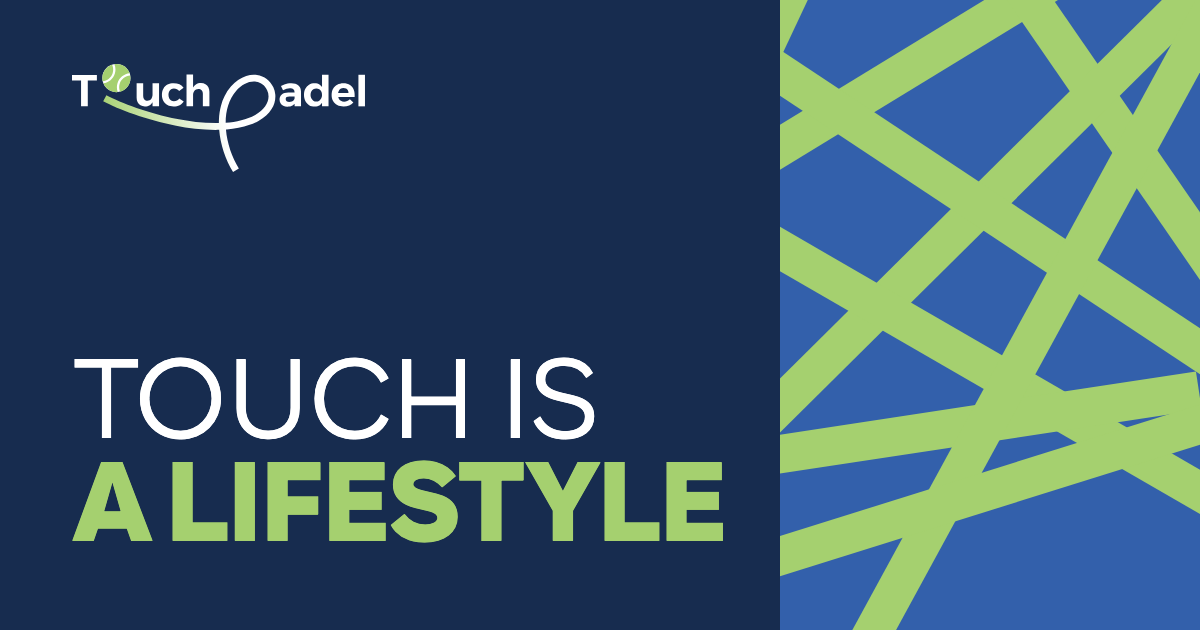
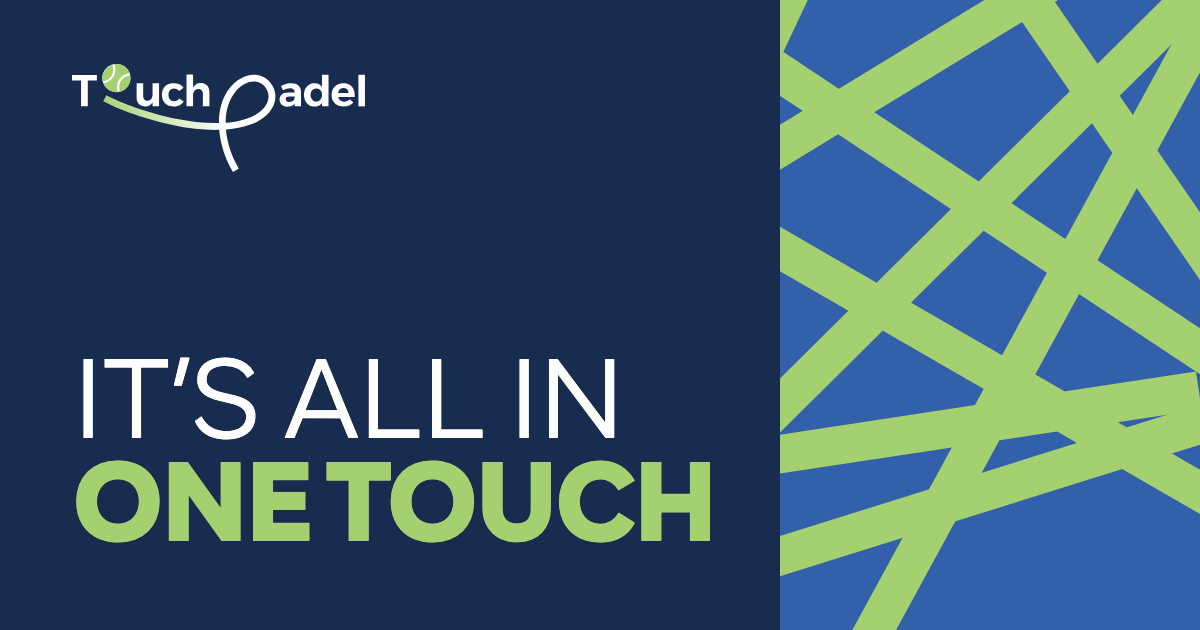
web: re-render the share posters for the new hero; absolute, versioned og:image URLs
The og-touch-padel-{ar,en}.png posters predated the hero change and still read
"Touch is a lifestyle". Re-rendered from the catalog by render-site-assets.mjs
(Arabic headline sized to 104px so "لمسة واحدة" stays on one line instead of
wrapping into the logo). The image URL now comes from siteOgImage(): absolute on
the site origin, with ?v=2 so link-preview caches fetch the new file.

Changed region(s): [[0.0617, 0.7238, 0.6167, 0.8746], [0.0617, 0.5429, 0.5242, 0.6937]]

diff --git a/apps/web/app/[locale]/layout.tsx b/apps/web/app/[locale]/layout.tsx
@@ -9,6 +9,7 @@ import { siteNightVars } from '@touch/ui/tokens/site';
 import { dirAttr, t } from '@touch/i18n';
 import { asLocale, LOCALES } from '@/lib/locales';
 import { siteOrigin } from '@/lib/site/origin';
+import { siteOgImage } from '@/lib/site/ogImage';
 
 export function generateStaticParams() {
   return LOCALES.map((locale) => ({ locale }));
@@ -70,7 +71,7 @@ export async function generateMetadata({
   // Iraq"); the document title default is the bare name.
   const title = t(locale, 'site.seo.title');
   const description = t(locale, 'site.seo.description');
-  const ogImage = `/brand/site/og-touch-padel-${locale}.png`;
+  const ogImage = siteOgImage(locale);
   return {
     // The one origin (src/lib/site/origin.ts): robots, the sitemap and the
     // JSON-LD read the same value, empty and unset env handled the same way.

diff --git a/apps/web/app/[locale]/page.tsx b/apps/web/app/[locale]/page.tsx
@@ -7,6 +7,7 @@ import { SITE_THEME_COLOR } from '@/lib/site/themeColor';
 import { crossesMidnight, everyDayWindow, formatWindow } from '@/lib/site/hours';
 import { cafePhoneMenu } from '@/lib/site/landing';
 import { siteOrigin } from '@/lib/site/origin';
+import { siteOgImage } from '@/lib/site/ogImage';
 import { buildLandingJsonLd, jsonLdString } from '@/lib/site/jsonLd';
 import { getStoreLinks } from '@/lib/site/stores';
 import { SiteShell } from '@/components/site/SiteShell';
@@ -57,7 +58,7 @@ export async function generateMetadata({
   const tr = makeT(locale);
   const title = tr('site.seo.title');
   const description = tr('site.seo.description');
-  const og = `/brand/site/og-touch-padel-${locale}.png`;
+  const og = siteOgImage(locale);
   return {
     title: { absolute: title },
     description,

diff --git a/apps/web/src/lib/site/jsonLd.ts b/apps/web/src/lib/site/jsonLd.ts
@@ -3,6 +3,7 @@ import { t } from '@touch/i18n';
 import type { VenueBranch, VenueOpeningHours } from '@/lib/menu';
 import { weekHours, type DayKey } from '@/lib/cafe/hours';
 import { branchAddress, branchName } from './contact';
+import { siteOgImage } from './ogImage';
 
 /**
  * Structured data for the landing page: a schema.org `SportsActivityLocation`.
@@ -126,7 +127,7 @@ export function buildLandingJsonLd({
     description: t(locale, 'site.seo.description'),
     url: `${origin}/${locale}`,
     logo: `${origin}/brand/site/icon-512.png`,
-    image: `${origin}/brand/site/og-touch-padel-${locale}.png`,
+    image: siteOgImage(locale, origin),
     inLanguage: locale,
     address: postalAddress(locale, venue),
     ...hasMap(venue),

diff --git a/apps/web/src/lib/site/ogImage.ts b/apps/web/src/lib/site/ogImage.ts
@@ -1,0 +1,13 @@
+import type { Locale } from '@touch/i18n';
+import { siteOrigin } from './origin';
+
+/**
+ * Bump when `og-touch-padel-{en,ar}.png` is re-rendered. Link-preview crawlers (WhatsApp,
+ * Telegram, X, Facebook) cache an image by URL; the query makes the new poster a new URL.
+ */
+export const OG_IMAGE_VERSION = 2;
+
+/** The Touch Padel share poster for `locale`: absolute, versioned. */
+export function siteOgImage(locale: Locale, origin: string = siteOrigin()): string {
+  return `${origin}/brand/site/og-touch-padel-${locale}.png?v=${OG_IMAGE_VERSION}`;
+}

diff --git a/apps/web/app/[locale]/page.test.tsx b/apps/web/app/[locale]/page.test.tsx
@@ -319,7 +319,9 @@ describe('home page metadata', () => {
       languages: { en: '/en', ar: '/ar', 'x-default': '/ar' },
     });
     const og = meta.openGraph as { images: { url: string }[] };
-    expect(og.images[0]!.url).toBe('/brand/site/og-touch-padel-ar.png');
+    expect(og.images[0]!.url).toBe(
+      'https://www.touch-padel.com/brand/site/og-touch-padel-ar.png?v=2',
+    );
   });
 
   it('404s a foreign locale', async () => {
